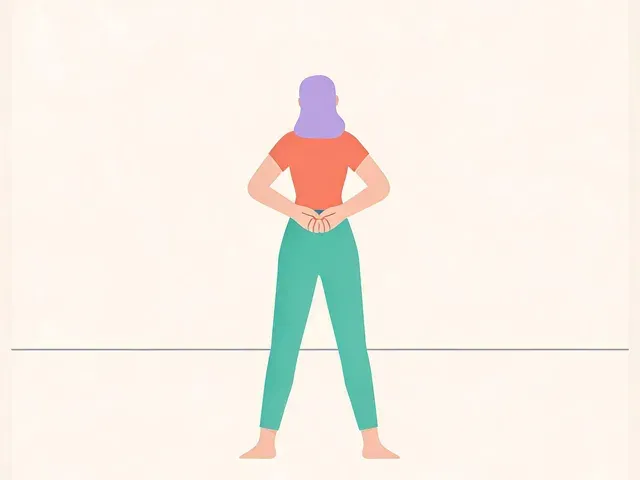
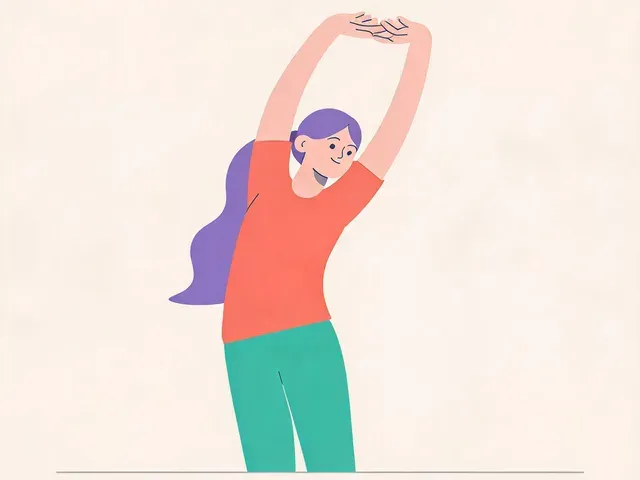
fix(reminder): 组图整组带入提醒 + 提醒媒体支持多选
用户反馈：微运动库的跟练组图「加入计划」后只剩一张图。

根因：ExercisesPage 的「加入计划」预填只取 ex.imageUrl（首帧），
而动作是 imageUrls 多帧组图 → 生成的提醒只剩一张。
ReminderEditPage 的预设分支也只接收单张 contentImage。

改动：
- 新增 utils/reminderPreset.ts：exerciseReminderPreset() 整组带入（imageUrls
  优先、退回 imageUrl），配套单测钉死「不丢帧」（含三帧深呼吸）
- ExercisesPage 改走该映射；ReminderEditPage 预设优先用 contentImages
- 提醒媒体选择支持一次多选（原先 single-file，且用 prev.slice(0,3) 静默丢弃第 5 张）
- 上限对齐后端 DTO（imageUrls ≤ 9、videoUrl 单条），超出提示；移除改为按下标，
  避免同图重复时被一次性删两处；选完清空 input（同一张图可重复选择）
- 复查官方计划 / 他人分享计划 / 离线镜像四条链路：content 均整体拷贝，
  组图不会丢（模板 3 条提醒各含 2~3 图已核）

顺带（同批发布）：
- 重绘 eye-focus-1（明确食指而非中指）、stretch-1（双臂上举体侧弯，原图画的是扩胸）
- 官方计划「眼部放松 20-20-20」改用微运动库同一套图（eye-2020-1/2），模板 v3→v4
- MEDIA_V 20260914a→b，绕开 WebView 图片缓存

验证：前端 tsc + 32 单测、后端构建、真机端到端（深呼吸放松 3 帧组图 →
加入计划 → 新建提醒页显示 3 张缩略图）、水印 316 PASS。

Changed region(s): [[0.0312, 0.0, 0.9688, 1.0]]

diff --git a/frontend/src/pages/ReminderEditPage.tsx b/frontend/src/pages/ReminderEditPage.tsx
@@ -7,6 +7,7 @@ import { RImg, RVideo } from '../components/remoteMedia';
 import { filesApi } from '../services/api/api.files';
 import { isVideoUrl } from '../components/MediaGrid';
 import { compressMediaFile } from '../utils/media';
+import type { ReminderPreset } from '../utils/reminderPreset';
 import { remindersApi } from '../services/api/api.reminders';
 import { medicinesApi } from '../services/api/api.medicines';
 import type { IntervalUnit, Medicine, ReminderCategory, RepeatType } from '../types';
@@ -45,13 +46,35 @@ export function ReminderEditPage() {
   const [searchParams] = useSearchParams();
   /** 从"我的计划"进入时附带 planId（创建提醒归属计划） */
   const planId = searchParams.get('planId');
-  const preset = (location.state as { preset?: { category?: ReminderCategory; title?: string; contentText?: string; contentImage?: string } } | null)?.preset;
+  const preset = (location.state as { preset?: ReminderPreset } | null)?.preset;
 
-  const pickMedia = async (file: File | undefined) => {
-    if (!file) return;
+  /** 媒体上限（与后端 ReminderContentDto 对齐：imageUrls ≤ 9、videoUrl 单条） */
+  const MAX_IMAGES = 9;
+  const MAX_VIDEOS = 1;
+
+  /** 选取媒体（支持一次多选）：图片最多 9 张、视频最多 1 个，超出部分丢弃并提示 */
+  const pickMedia = async (files: File[]) => {
+    if (!files.length) return;
     try {
-      const { url } = await filesApi.upload(await compressMediaFile(file));
-      setReminderMedia((prev) => [...prev.slice(0, 3), url]);
+      const urls: string[] = [];
+      for (const f of files) {
+        const { url } = await filesApi.upload(await compressMediaFile(f));
+        urls.push(url);
+      }
+      const curImgs = reminderMedia.filter((u) => !isVideoUrl(u)).length;
+      const curVids = reminderMedia.filter(isVideoUrl).length;
+      if (curImgs + urls.filter((u) => !isVideoUrl(u)).length > MAX_IMAGES) {
+        setError(`图片最多 ${MAX_IMAGES} 张，超出的已忽略`);
+      } else if (curVids + urls.filter(isVideoUrl).length > MAX_VIDEOS) {
+        setError('视频最多 1 个，超出的已忽略');
+      }
+      setReminderMedia((prev) => {
+        const merged = [...prev, ...urls];
+        return [
+          ...merged.filter((u) => !isVideoUrl(u)).slice(0, MAX_IMAGES),
+          ...merged.filter(isVideoUrl).slice(0, MAX_VIDEOS),
+        ];
+      });
     } catch (e) {
       setError(errorMessage(e));
     }
@@ -98,7 +121,10 @@ export function ReminderEditPage() {
     if (preset.category) setCategory(preset.category);
     if (preset.title) setTitle(preset.title);
     if (preset.contentText) setContentText(preset.contentText);
-    if (preset.contentImage) setReminderMedia([preset.contentImage]);
+    // 组图优先（微运动库动作是多帧跟练图，不能只带首帧）；无组图时退回单图
+    const presetImgs = preset.contentImages?.filter(Boolean) ?? [];
+    if (presetImgs.length) setReminderMedia(presetImgs);
+    else if (preset.contentImage) setReminderMedia([preset.contentImage]);
     // eslint-disable-next-line react-hooks/exhaustive-deps
   }, []);
 
@@ -538,14 +564,25 @@ export function ReminderEditPage() {
               <input
                 type="file"
                 accept="image/*,video/*"
+                multiple
                 className="hidden"
-                onChange={(e) => void pickMedia(e.target.files?.[0])}
+                onChange={(e) => {
+                  // 先取快照再清空 input：否则同一张图重复选择不会再触发 change
+                  const picked = Array.from(e.target.files ?? []);
+                  e.target.value = '';
+                  void pickMedia(picked);
+                }}
               />
             </label>
             {reminderMedia.length > 0 && (
-              <button onClick={() => setReminderMedia([])} className="text-xs text-danger-500">
-                清空
-              </button>
+              <>
+                <span className="text-[11px] text-ink-300">
+                  可多选 · 图片最多 {MAX_IMAGES} 张 · 视频 1 个
+                </span>
+                <button onClick={() => setReminderMedia([])} className="text-xs text-danger-500">
+                  清空
+                </button>
+              </>
             )}
           </div>
           {reminderMedia.length > 0 && (
@@ -568,7 +605,7 @@ export function ReminderEditPage() {
                     <RImg src={u} alt={`媒体 ${i + 1}`} className="h-full w-full object-cover" />
                     <button
                       type="button"
-                      onClick={() => setReminderMedia((prev) => prev.filter((x) => x !== u))}
+                      onClick={() => setReminderMedia((prev) => prev.filter((_, j) => j !== i))}
                       aria-label="移除媒体"
                       className="absolute right-1 top-1 flex h-5 w-5 items-center justify-center rounded-full bg-black/50 text-white"
                     >

diff --git a/backend/src/seed/seed.service.ts b/backend/src/seed/seed.service.ts
@@ -60,7 +60,7 @@ export class SeedService implements OnApplicationBootstrap {
   }
 
   /** 插画媒体版本：重生成图片后 bump，URL 带参强制客户端绕过 WebView 图片缓存 */
-  private static readonly MEDIA_V = '20260914a';
+  private static readonly MEDIA_V = '20260914b';
 
   /** 官方计划（PlanTemplate，用户可一键加入）；已存在时按 version 递增更新配置 */
   private async seedPlanTemplates(media: Record<string, string>) {
@@ -79,7 +79,8 @@ export class SeedService implements OnApplicationBootstrap {
     const officeConfig: TemplateReminderConfig[] = [
       { category: 'exercise', title: '久坐起身活动', repeatRule: { type: 'interval', intervalValue: 45, intervalUnit: 'minute' }, content: { text: '每坐 45 分钟起身活动 2~3 分钟：接水/走动，看看远处放松眼睛。', imageUrls: seq('standup-1', 'standup-2', 'eye-care-1') } },
       { category: 'exercise', title: '颈部放松', repeatRule: { type: 'interval', intervalValue: 2, intervalUnit: 'hour' }, content: { text: '颈部后缩（纠正头前倾）：下巴水平后收成"双下巴"，保持 5 秒 × 10 次；再左右侧倾拉伸各 15 秒。', imageUrls: seq('neck-ret-1', 'neck-ret-2') } },
-      { category: 'eye', title: '眼部放松 20-20-20', repeatRule: { type: 'interval', intervalValue: 1, intervalUnit: 'hour' }, content: { text: '每用眼 20 分钟，看 20 英尺（约 6 米）外 20 秒——至少每小时完整做一组。', imageUrls: seq('eye-far', 'eye-close') } },
+      // 2026-09-14（用户）：官方计划的眼部放松改用微运动库同一套 20-20-20 图，避免两处插画说法不一致
+      { category: 'eye', title: '眼部放松 20-20-20', repeatRule: { type: 'interval', intervalValue: 1, intervalUnit: 'hour' }, content: { text: '每用眼 20 分钟，看 20 英尺（约 6 米）外 20 秒——至少每小时完整做一组。', imageUrls: seq('eye-2020-1', 'eye-2020-2') } },
     ];
 
     const medicationConfig: TemplateReminderConfig[] = [
@@ -103,7 +104,7 @@ export class SeedService implements OnApplicationBootstrap {
         title: '办公室健康操',
         description: '久坐族必备：每 45 分钟起身活动 + 每小时护眼 + 每日颈部放松（配跟练图解）。',
         status: PlanTemplateStatus.PUBLISHED,
-        version: 3,
+        version: 4,
         createdBy: 'system',
         mediaUrls: seq('standup-1', 'neck-ret-1', 'eye-care-1'),
         reminderConfig: officeConfig as never,

diff --git a/frontend/tests/unit/reminderPreset.spec.ts b/frontend/tests/unit/reminderPreset.spec.ts
@@ -1,0 +1,41 @@
+/* @Sdrop 布谷(Cuckoo) v2 SKEY_5biD6LC3KEN1Y2tvbyl8ZnJvbnRlbmQvdGVzdHMvdW5pdC9yZW1pbmRlclByZXNldC5zcGVjLnRzfDIwMjYtMDl8YzU0OTBkZmE0Mg== */
+import { describe, expect, it } from 'vitest';
+import { exerciseReminderPreset, imagesOf } from '../../src/utils/reminderPreset';
+
+/**
+ * 2026-09-14 回归防线：「微运动库组图加入计划后只剩一张」。
+ *
+ * 事故根因：ExercisesPage 的「加入计划」只把 ex.imageUrl（首帧）塞进 preset，
+ * 而动作是 imageUrls 多帧组图 → 生成的提醒只剩一张图。
+ */
+describe('微运动库 → 新建提醒 预填', () => {
+  it('组图整体带入（不丢帧）', () => {
+    const preset = exerciseReminderPreset({
+      name: '20-20-20 眼部放松',
+      steps: '每 20 分钟看 20 英尺外 20 秒',
+      durationSeconds: 20,
+      imageUrl: '/uploads/guide/eye-2020-1.webp',
+      imageUrls: ['/uploads/guide/eye-2020-1.webp', '/uploads/guide/eye-2020-2.webp'],
+    });
+    expect(preset.contentImages).toEqual([
+      '/uploads/guide/eye-2020-1.webp',
+      '/uploads/guide/eye-2020-2.webp',
+    ]);
+    expect(preset.title).toBe('20-20-20 眼部放松');
+    expect(preset.contentText).toContain('建议时长 20 秒');
+  });
+
+  it('三帧组图（深呼吸）也不丢帧', () => {
+    const imgs = imagesOf({
+      imageUrl: '/g/breathe-1.webp',
+      imageUrls: ['/g/breathe-1.webp', '/g/breathe-2.webp', '/g/breathe-3.webp'],
+    });
+    expect(imgs).toHaveLength(3);
+  });
+
+  it('无组图时退回单张 imageUrl；两者都无则空数组', () => {
+    expect(imagesOf({ imageUrl: '/g/wrist-1.webp', imageUrls: [] })).toEqual(['/g/wrist-1.webp']);
+    expect(imagesOf({ imageUrl: null, imageUrls: null })).toEqual([]);
+    expect(imagesOf({ imageUrls: ['', ''] })).toEqual([]);
+  });
+});

diff --git a/frontend/src/utils/reminderPreset.ts b/frontend/src/utils/reminderPreset.ts
@@ -1,0 +1,42 @@
+/* @Sdrop 布谷(Cuckoo) v2 SKEY_5biD6LC3KEN1Y2tvbyl8ZnJvbnRlbmQvc3JjL3V0aWxzL3JlbWluZGVyUHJlc2V0LnRzfDIwMjYtMDl8ZWQyNTExMmQ1MA== */
+/**
+ * 「微运动库 / 官方计划」→ 新建提醒 的预填映射。
+ *
+ * 2026-09-14 修复：微运动库动作是**组图**（imageUrls 多帧），此前预填只取首帧 imageUrl，
+ * 加入计划后提醒里就只剩一张图。组图必须整体带入。
+ */
+
+import type { ReminderCategory } from '../types';
+
+export interface ReminderPreset {
+  category?: ReminderCategory;
+  title?: string;
+  contentText?: string;
+  /** 组图（优先） */
+  contentImages?: string[];
+  /** 单图（兼容旧调用；仅当没有组图时使用） */
+  contentImage?: string;
+}
+
+/** 取组图：imageUrls 非空用组图，否则退回单张 imageUrl；过滤空值 */
+export function imagesOf(source: { imageUrl?: string | null; imageUrls?: string[] | null }): string[] {
+  const group = (source.imageUrls ?? []).filter(Boolean);
+  if (group.length) return group;
+  return source.imageUrl ? [source.imageUrl] : [];
+}
+
+/** 微运动库动作 → 新建提醒预填（组图整体带入） */
+export function exerciseReminderPreset(ex: {
+  name: string;
+  steps: string;
+  durationSeconds: number;
+  imageUrl?: string | null;
+  imageUrls?: string[] | null;
+}): ReminderPreset {
+  return {
+    category: 'exercise',
+    title: ex.name,
+    contentText: `${ex.steps}\n（建议时长 ${ex.durationSeconds} 秒）`,
+    contentImages: imagesOf(ex),
+  };
+}

diff --git a/frontend/src/pages/ExercisesPage.tsx b/frontend/src/pages/ExercisesPage.tsx
@@ -6,6 +6,7 @@ import { ErrorBanner, EmptyState, LoadingState } from '../components/ui/Feedback
 import { exercisesApi } from '../services/api/api.exercises';
 import type { Exercise } from '../services/api/api.exercises';
 import { errorMessage } from '../services/http';
+import { exerciseReminderPreset } from '../utils/reminderPreset';
 import { RImg } from '../components/remoteMedia';
 import { MediaCarousel } from '../components/MediaCarousel';
 
@@ -38,17 +39,8 @@ export function ExercisesPage() {
   }, []);
 
   const addToPlan = (ex: Exercise) => {
-    // 预填内容跳转新建提醒（配图一并带入，提醒触发时可看跟练图）
-    navigate('/reminders/new', {
-      state: {
-        preset: {
-          category: 'exercise',
-          title: ex.name,
-          contentText: `${ex.steps}\n（建议时长 ${ex.durationSeconds} 秒）`,
-          contentImage: ex.imageUrl ?? undefined,
-        },
-      },
-    });
+    // 预填内容跳转新建提醒（组图整组带入，提醒触发时可逐帧跟练）
+    navigate('/reminders/new', { state: { preset: exerciseReminderPreset(ex) } });
   };
 
   return (
